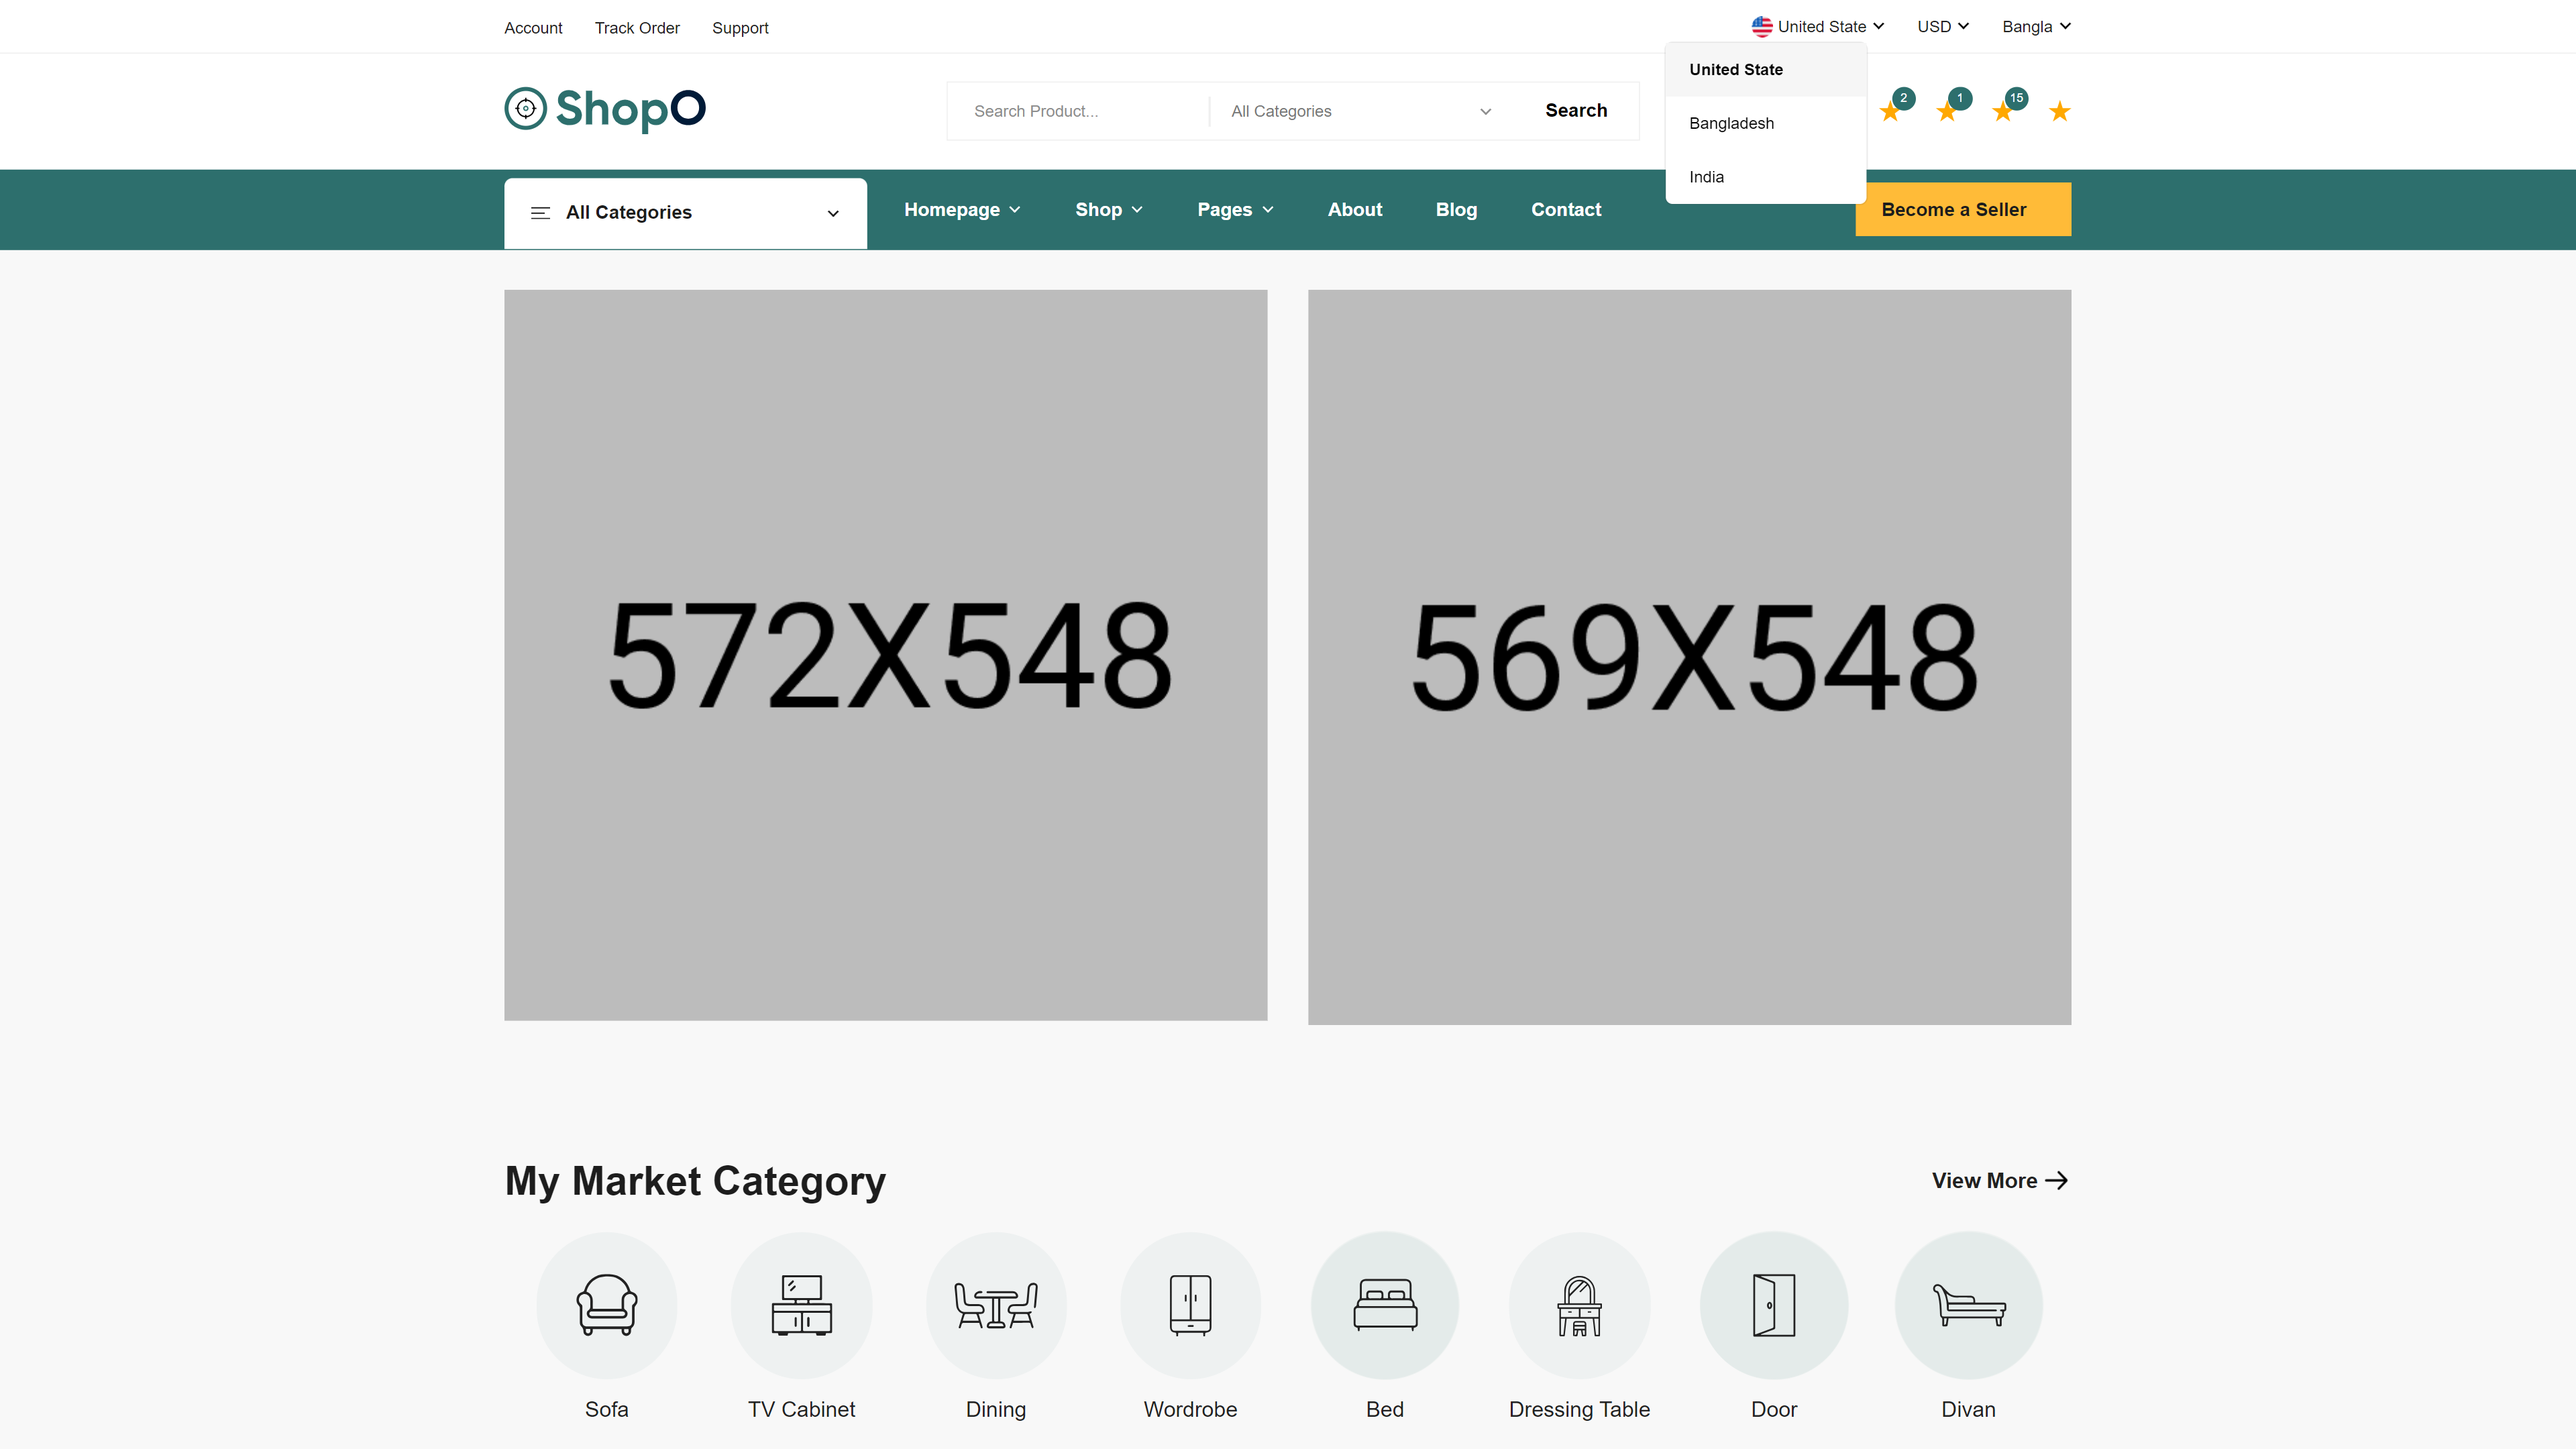
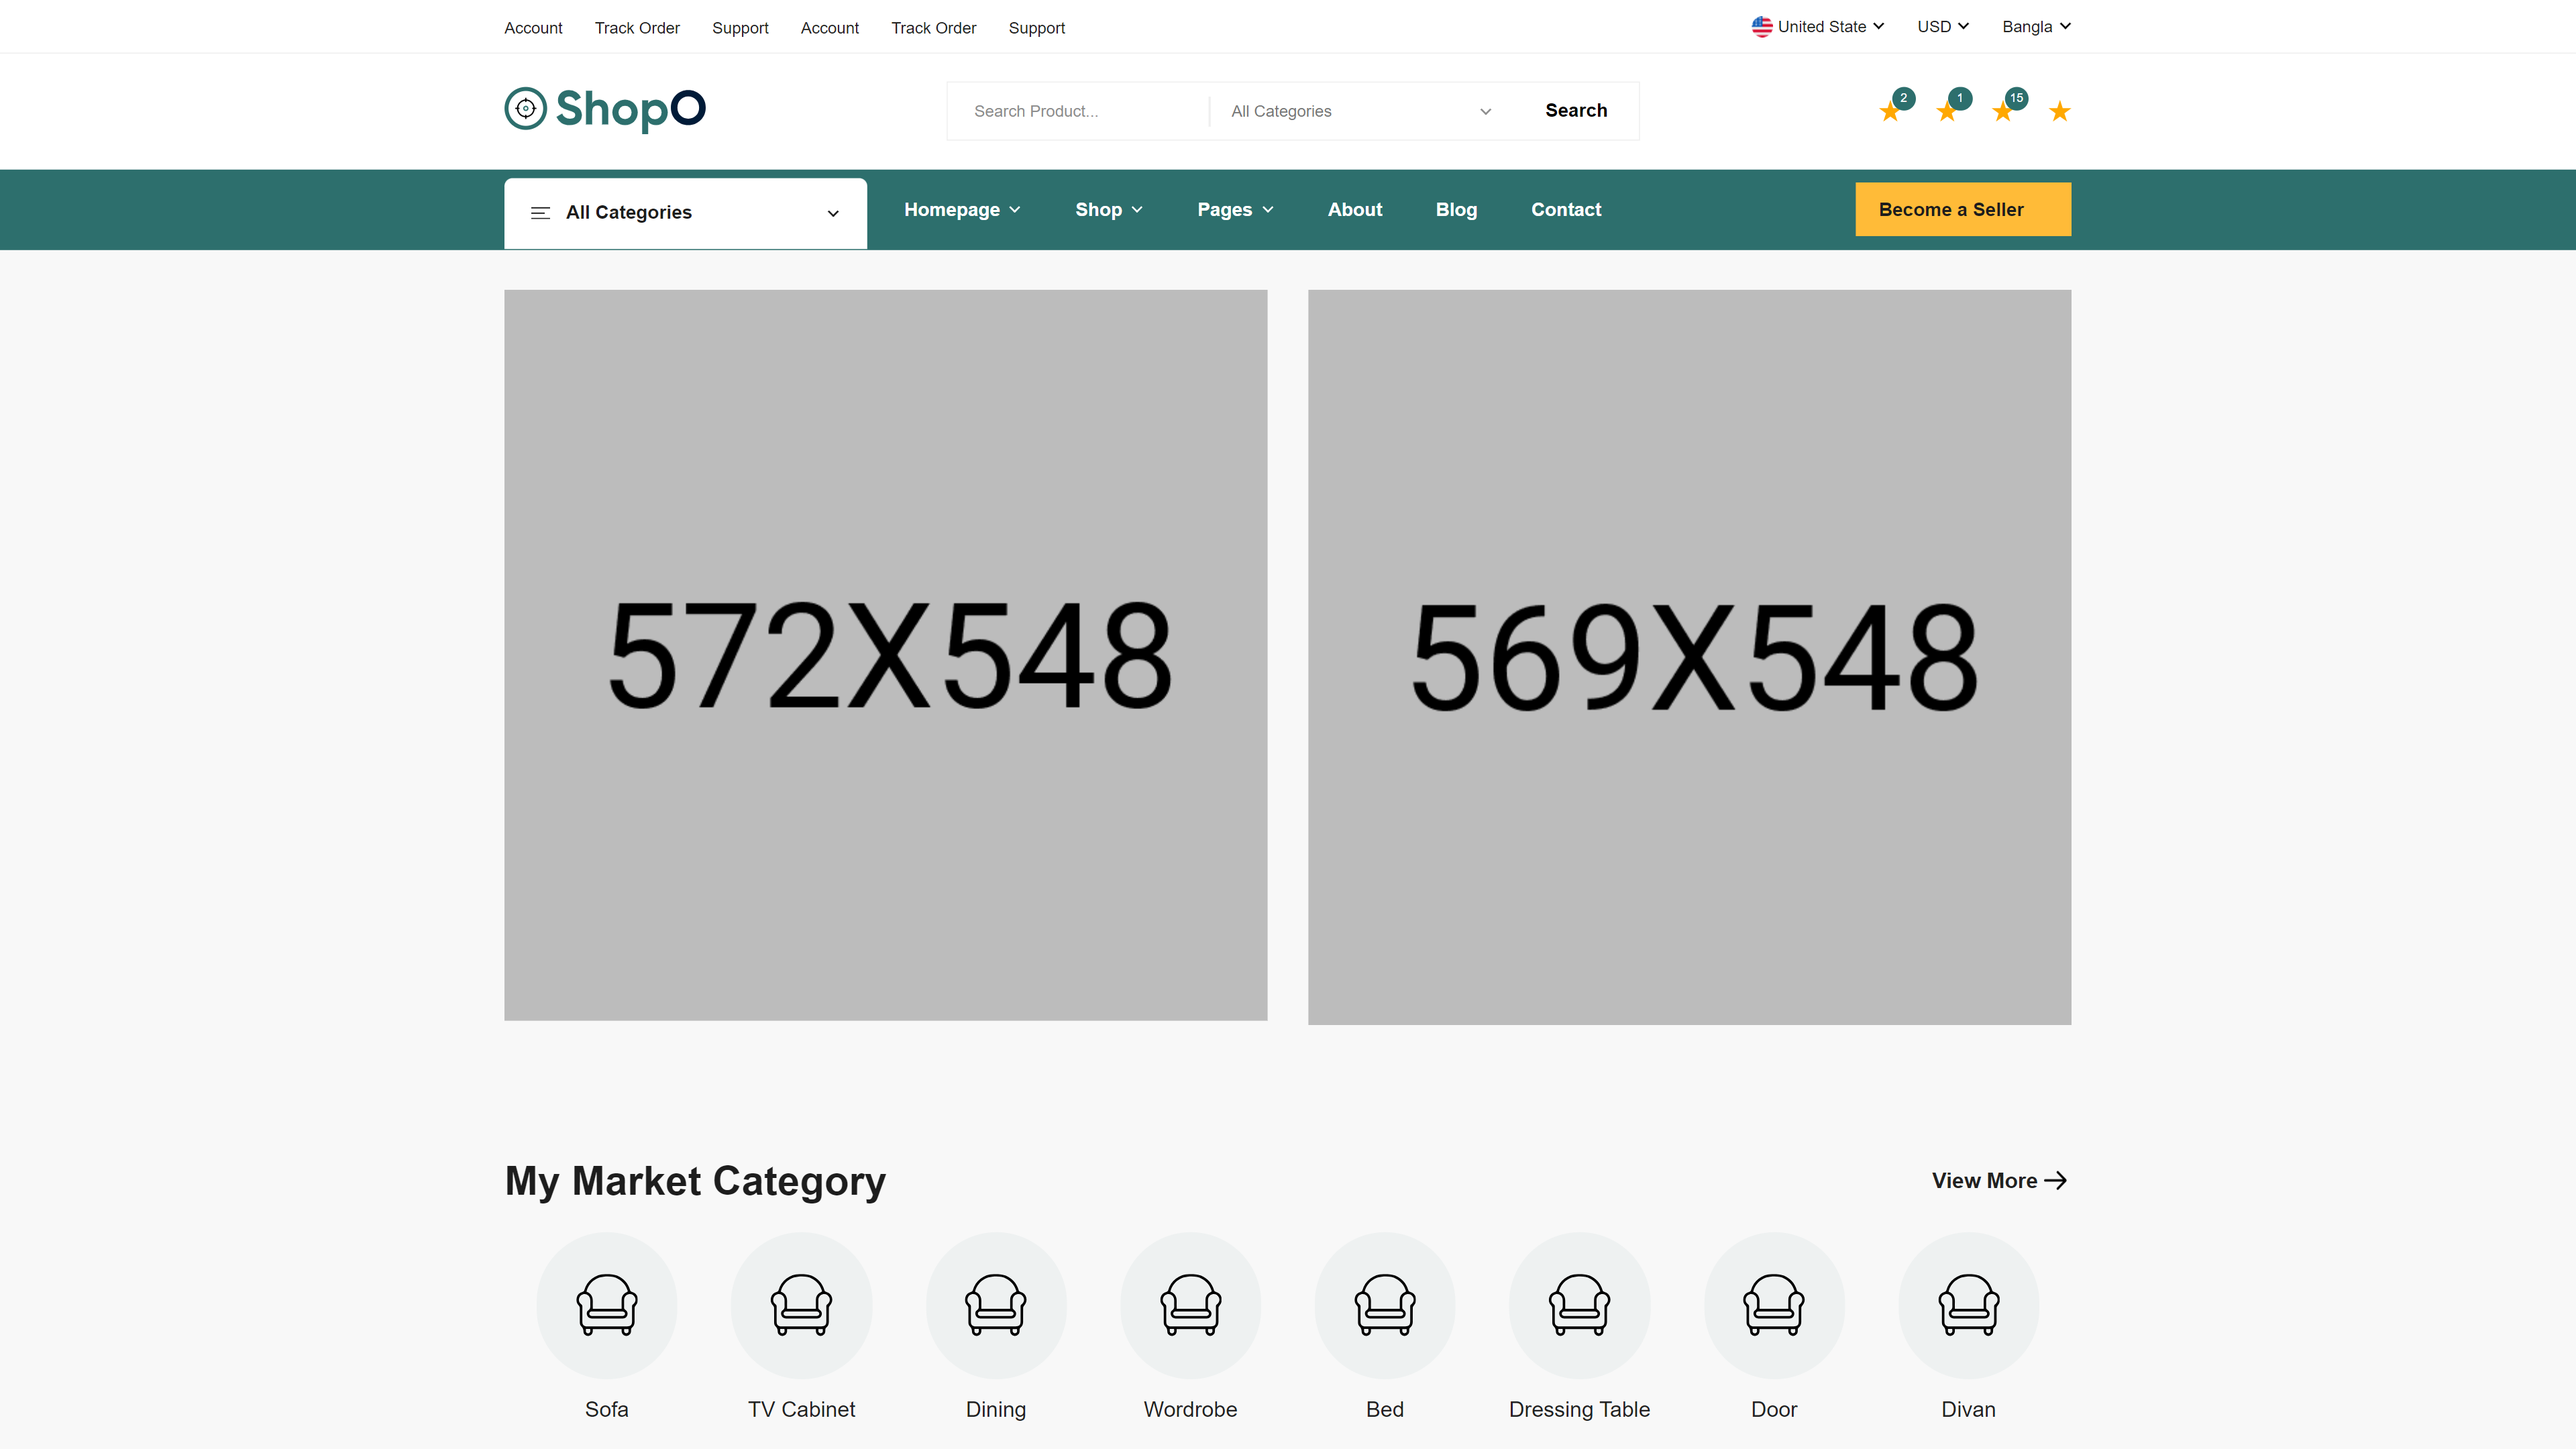
Added extra text inside the TopBar

diff --git a/src/components/Headers/TopBar.jsx b/src/components/Headers/TopBar.jsx
@@ -34,6 +34,27 @@ export default function TopBar({ className }) {
                     </span>
                   </a>
                 </li>
+                <li>
+                  <a to="/">
+                    <span className="text-xs leading-6 text-qblack font-500">
+                      Account
+                    </span>
+                  </a>
+                </li>
+                <li>
+                  <a to="/tracking-order">
+                    <span className="text-xs leading-6 text-qblack font-500">
+                      Track Order
+                    </span>
+                  </a>
+                </li>
+                <li>
+                  <a to="/faq">
+                    <span className="text-xs leading-6 text-qblack font-500">
+                      Support
+                    </span>
+                  </a>
+                </li>
               </ul>
             </div>
             <div className="topbar-dropdowns sm:block hidden">
